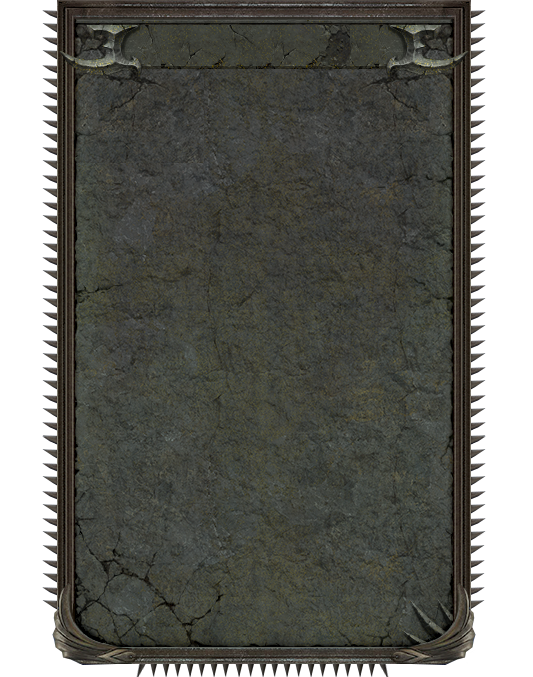
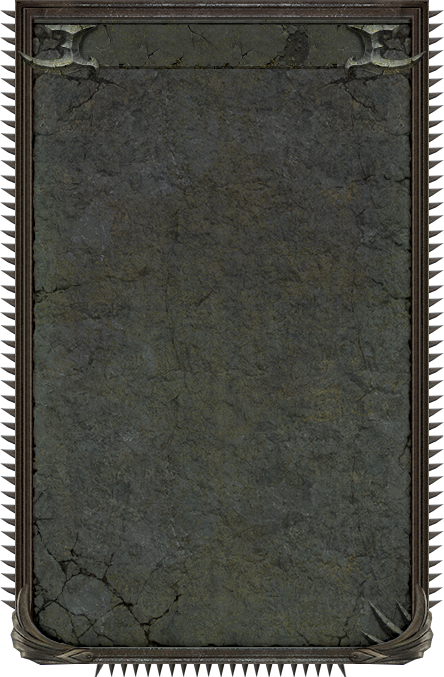
added wh1 races, updated plaques, fixed db data

diff --git a/client/src/components/home/RaceSelector.vue b/client/src/components/home/RaceSelector.vue
@@ -1,13 +1,31 @@
 <template>
-    <div class="race-selector unselectable col-12 col-md-5" :style="getAssets('plaque')">
-        <ul>
-            <li><a type="button" class="home-button" @click="selectRace('Dark Elves')" :style="getAssets('button-home', 'Dark Elves')">Dark Elves</a></li>
-            <li><a type="button" class="home-button" @click="selectRace('High Elves')" :style="getAssets('button-home', 'High Elves')">High Elves</a></li>
-            <li><a type="button" class="home-button" @click="selectRace('Lizardmen')" :style="getAssets('button-home', 'Lizardmen')">Lizardmen</a></li>
-            <li><a type="button" class="home-button disabled-button" @click="selectRace('Skaven', 'disabled')" :style="getAssets('button-home', 'Skaven')">Skaven</a></li>
-            <li><a type="button" class="home-button disabled-button" @click="selectRace('Tomb Kings', 'disabled')" :style="getAssets('button-home', 'Tomb Kings')">Tomb Kings</a></li>
-            <li><a type="button" class="home-button disabled-button" @click="selectRace('Vampire Coast', 'disabled')" :style="getAssets('button-home', 'Vampire Coast')">Vampire Coast</a></li>
-        </ul>
+    <div class="race-selector offset-race-selector unselectable col-12 col-lg-6" :style="getAssets('plaque-banner2')">
+        <div class="offset-right">
+            <ul>
+                <li class="race-header">
+                    <a @click="changeLords()" :style="getHeader()" type="button"></a>
+                </li>
+            </ul>
+            <ul v-if="wh2">
+                <li><a type="button" class="home-button" @click="selectRace('Dark Elves')" :style="getAssets('button-home', 'Dark Elves')">Dark Elves</a></li>
+                <li><a type="button" class="home-button" @click="selectRace('High Elves')" :style="getAssets('button-home', 'High Elves')">High Elves</a></li>
+                <li><a type="button" class="home-button" @click="selectRace('Lizardmen')" :style="getAssets('button-home', 'Lizardmen')">Lizardmen</a></li>
+                <li><a type="button" class="home-button disabled-button" @click="selectRace('Skaven', 'disabled')" :style="getAssets('button-home', 'Skaven')">Skaven</a></li>
+                <li><a type="button" class="home-button disabled-button" @click="selectRace('Tomb Kings', 'disabled')" :style="getAssets('button-home', 'Tomb Kings')">Tomb Kings</a></li>
+                <li><a type="button" class="home-button disabled-button" @click="selectRace('Vampire Coast', 'disabled')" :style="getAssets('button-home', 'Vampire Coast')">Vampire Coast</a></li>
+            </ul>
+            <ul class="wh" v-else>
+                <li><a type="button" class="home-button disabled-button" @click="selectRace('The Empire', 'disabled')" :style="getAssets('button-home', 'The Empire')">The Empire</a></li>
+                <li><a type="button" class="home-button disabled-button" @click="selectRace('Dwarves', 'disabled')" :style="getAssets('button-home', 'Dwarves')">Dwarves</a></li>
+                <li><a type="button" class="home-button disabled-button" @click="selectRace('Greenskins', 'disabled')" :style="getAssets('button-home', 'Greenskins')">Greenskins</a></li>
+                <li><a type="button" class="home-button disabled-button" @click="selectRace('Vampire Counts', 'disabled')" :style="getAssets('button-home', 'Vampire Counts')">Vampire Counts</a></li>
+                <li><a type="button" class="home-button disabled-button" @click="selectRace('Norsca', 'disabled')" :style="getAssets('button-home', 'Norsca')">Norsca</a></li>
+                <li><a type="button" class="home-button disabled-button" @click="selectRace('Bretonnia', 'disabled')" :style="getAssets('button-home', 'Bretonnia')">Bretonnia</a></li>
+                <li><a type="button" class="home-button disabled-button" @click="selectRace('Wood Elves', 'disabled')" :style="getAssets('button-home', 'Wood Elves')">Wood Elves</a></li>
+                <li><a type="button" class="home-button disabled-button" @click="selectRace('Beastmen Warherds', 'disabled')" :style="getAssets('button-home', 'Beastmen Warherds')">Beastmen Warherds</a></li>
+                <li><a type="button" class="home-button disabled-button" @click="selectRace('Chaos', 'disabled')" :style="getAssets('button-home', 'Chaos')">Chaos</a></li>
+            </ul>
+        </div>
     </div>
 </template>
 
@@ -18,7 +36,8 @@ export default {
     name: 'RaceSelector',
     data() {
         return {
-            selection: null
+            selection: 'Dark Elves',
+            wh2: true
         }
     },
     methods: {
@@ -32,12 +51,35 @@ export default {
             let img = require('@/assets/home/' + item + '.png');
             img = { 'backgroundImage': 'url(' + img + ')' };
             return img;
+        },
+        getHeader() {
+            let type = this.wh2 ? 'wh2' : 'wh'
+            let item, left, right;
+            item = require('@/assets/home/' + type + '.png');
+            right = require('@/assets/home/right-button.png');
+            left = require('@/assets/home/left-button.png');
+
+            return { 'backgroundImage': 'url(' + item + ')' };
+        },
+        changeLords() {
+            this.wh2 ? this.wh2 = false : this.wh2 = true;
         }
     }
 };
 </script>
 
 <style>
+@media (min-width: 1046px) {
+    .offset-right {
+        position: absolute;
+        right: calc(15% - 18px);
+    }
+    .race-selector.offset-race-selector {
+        background-position: right 15% top 30px;
+    }
+}
+
+
 .race-selector {
     background-position: center top 30px;
     background-repeat: no-repeat;
@@ -47,7 +89,10 @@ export default {
 .race-selector ul {
     list-style-type: none;
     padding-left: 0px;
-    padding-top: 55px;
+    margin-bottom: 0px;
+}
+.race-selector ul:first-child {
+    padding-top: 40px;
 }
 .disabled-button {
     filter: grayscale(100%);
@@ -56,5 +101,26 @@ export default {
 .race-selector ul li {
     padding: 13px 0 10px 0;
     width: 100%;
+}
+.race-selector ul.wh li {
+    padding: 11px 0 10px 0;
+    width: 100%;
+}
+.race-selector ul.wh li:first-child {
+    padding: 13px 0 10px 0;
+    width: 100%;
+}
+.race-header {
+    padding-top: 0px !important;
+    padding-bottom: 0px !important;
+    height: 70px;
+}
+.race-header a {
+    display: inline-block;
+    background-position: top center;
+    background-repeat: no-repeat;
+    z-index: 1;
+    width: 52px;
+    height: 70px;
 }
 </style>

diff --git a/client/src/components/home/LordSelector.vue b/client/src/components/home/LordSelector.vue
@@ -1,34 +1,36 @@
 <template>
-    <div class="lord-selector unselectable col-12 col-md-5" :style="getAssets('plaque-banner')">
-        <ul v-if="selection">
-            <li class="lord-header">
-                <a @click="changeLords()" :style="getHeader()" type="button" :disabled="!selection"></a>
-            </li>
-        </ul>
-        <ul v-if="showLords">
-            <li v-for="(lord, index) in lords" :key="index" >
-                <div v-if="lord.school" class="banner" :style="getAssets('banner')">
-                    <a :style="getAssets('button-home')" class="home-button" :disabled="!selection" style="display:block">
-                        {{lord.name}}
-                    </a>
-                    <div class="spell-schools">
-                        <a v-for="(magic, index) in lord.school" :key="index" @click="selectLord(lord, magic)" type="button" :style="getImages('spellSchools/' + magic)" />
+    <div class="lord-selector offset-lord-selector unselectable col-12 col-lg-6" :style="getAssets('plaque-banner')">
+        <div class="offset-left">
+            <ul v-if="selection">
+                <li class="lord-header">
+                    <a @click="changeLords()" :style="getHeader()" type="button" :disabled="!selection"></a>
+                </li>
+            </ul>
+            <ul v-if="showLords">
+                <li v-for="(lord, index) in lords" :key="index" >
+                    <div v-if="lord.school" class="banner" :style="getAssets('banner')">
+                        <a :style="getAssets('button-home')" class="home-button" :disabled="!selection" style="display:block">
+                            {{lord.name}}
+                        </a>
+                        <div class="spell-schools">
+                            <a v-for="(magic, index) in lord.school" :key="index" @click="selectLord(lord, magic)" type="button" :style="getImages('spellSchools/' + magic)" />
+                        </div>
                     </div>
-                </div>
-                <div v-else>
-                    <a @click="selectLord(lord)" :style="getAssets('button-home')" type="button" class="home-button" :disabled="!selection">
+                    <div v-else>
+                        <a @click="selectLord(lord)" :style="getAssets('button-home')" type="button" class="home-button" :disabled="!selection">
+                            {{lord.name}}
+                        </a>
+                    </div>
+                </li>
+            </ul>
+            <ul v-else> 
+                <li v-for="(lord, index) in legendaryLords" :key="index">
+                    <a @click="selectLord(lord)" :style="getAssets('button-ll')" type="button" class="home-button" :disabled="!selection">
                         {{lord.name}}
                     </a>
-                </div>
-            </li>
-        </ul>
-        <ul v-else> 
-            <li v-for="(lord, index) in legendaryLords" :key="index">
-                <a @click="selectLord(lord)" :style="getAssets('button-ll')" type="button" class="home-button" :disabled="!selection">
-                    {{lord.name}}
-                </a>
-            </li>
-        </ul>
+                </li>
+            </ul>
+        </div>
     </div>
 </template>
 
@@ -50,6 +52,7 @@ export default {
     },
     methods: {
         setRace() {
+            console.log('2', this.selection)
             if (this.selection) {
                 this.lords = LordKey.lords[this.selection];
                 this.legendaryLords = LordKey.legendary[this.selection];
@@ -89,11 +92,24 @@ export default {
         selection: function() {
             this.setRace();
         }
+    },
+    created() {
+        this.setRace();
     }
 };
 </script>
 
 <style>
+@media (min-width: 1046px) {
+    .offset-left {
+        position: absolute;
+        left: calc(15% - 18px);
+    }
+    .lord-selector.offset-lord-selector {
+        background-position: left 15% top 30px;
+    }
+}
+
 .lord-selector {
     background-position: center top 30px;
     background-repeat: no-repeat;

diff --git a/client/src/views/Calculator.vue b/client/src/views/Calculator.vue
@@ -2,17 +2,16 @@
     <div id="calculator" v-if="skills.length > 0" class="container-fluid calc-border calc" :style="getBackground(this.styleGuide)">
         <div class="header-padding">
             <div class="row navbar navbar-expand-lg navbar-light fixed-top top-bar unselectable" :style="getHeaderBackground(this.styleGuide, 'panel-tile')">
-                <div class="col left-nav action-items">
+                <div class="left-nav action-items">
                     <a @click="$router.push('/')" type="button" :style="getAsset(this.styleGuide, 'home')">Back</a>
                     <a @click="resetPoints()" type="button" style="marginLeft:20px;" :style="getAsset(this.styleGuide, 'reset')"></a>
                     <a @click="changeStyle()" type="button" style="marginLeft:20px;" :style="getAsset(this.styleGuide, 'icon-wh')"></a>
                 </div>
-                <div class="col lord-name" :style="getHeaderBackground(this.styleGuide, 'title-large')">
+                <div class="middle-nav lord-name" :style="getHeaderBackground(this.styleGuide, 'title-large')">
                     <p>{{getProperName()}}</p>
                 </div>
-                <div class="col right-nav level" :style="getHeaderBackground(this.styleGuide, 'level-frame')">
-                    <p>Level:</p>
-                    <span class="inline-block">{{lordLevel}}</span>
+                <div class="right-nav level" :style="getHeaderBackground(this.styleGuide, 'level-frame')">
+                    <p>{{lordLevel}}</p>
                 </div>
             </div>
         </div>
@@ -236,24 +235,28 @@ export default {
 }
 .left-nav {
     text-align: left;
+    display: inline-block;
+    width: 20%;
 }
 .lord-name {
     background-position: center;
     background-repeat: no-repeat;
     height: 68px;
+    width: 60%;
     font-weight: 600;
     font-size: 1.2em;
     color: #EBE6CD;
-    padding: 0 160px;
 }
 .lord-name p {
     padding-top: 20px;
 }
 .right-nav {
+    width: 20%;
     text-align: right;
 }
 .right-nav p {
     margin-bottom: 0px;
+    padding-right: 12px;
 }
 .header-padding {
     padding-bottom: 160px;
@@ -274,7 +277,7 @@ export default {
     display: inline-block;
     color: #EBE6CD;
     padding-top: 20px;
-    padding-right: 30px;
+    padding-right: 32px;
 }
 .level span {
     color: #EBE6CD;

diff --git a/client/src/services/gradients.js b/client/src/services/gradients.js
@@ -1,16 +1,16 @@
 
 exports.rarity = {
-    common: '#505663, #4F5560, #4E535E, #46515A, #46515A, #333739, #2C2D2D, black',
-    uncommon: '#306E3A, #306338, #306238, #2A652E, #276127, #275126, #283425, black',
-    rare: '#3E52A1, #384EA1, #3A4E99, #324D9A, #2A539C, #264373, #222A38, black',
-    legendary: '#693E82, #613C79, #5F3E74, #5E3D76, #4D316F, #3C2D4D, #242933, black'
+    common: '#505663, #4F5560, #4E535E, #46515A, #46515A, #333739, #2C2D2D, #000000',
+    uncommon: '#306E3A, #306338, #306238, #2A652E, #276127, #275126, #283425, #000000',
+    rare: '#3E52A1, #384EA1, #3A4E99, #324D9A, #2A539C, #264373, #222A38, #000000',
+    legendary: '#693E82, #613C79, #5F3E74, #5E3D76, #4D316F, #3C2D4D, #242933, #000000'
 }
 
 exports.description = {
-    common: '#393C41, #3A3D42, #373A3E, #323639, #282B2C',
-    uncommon: '#2C482F, #2B432E, #2A442D, #274226, #282C25',
-    rare: '#333D5F, #303A5C, #313B5C, #293957, #272623',
-    legendary: '#473352, #44324D, #42324B, #362B42, #2C282C'
+    common: '#393C41, #3A3D42, #373A3E, #323639, #282B2C, #000000',
+    uncommon: '#2C482F, #2B432E, #2A442D, #274226, #282C25, #000000',
+    rare: '#333D5F, #303A5C, #313B5C, #293957, #272623, #000000',
+    legendary: '#473352, #44324D, #42324B, #362B42, #2C282C, #000000'
 }
 
 exports.buttons = {

diff --git a/client/src/components/calculator/Popup.vue b/client/src/components/calculator/Popup.vue
@@ -4,7 +4,7 @@
         <div v-if="quest" class="title">
             <span class="icon"><a class="rarity-icon" :style="getIcon('spellStyles', 'legendary')"></a></span>
             <div class="spell-name inline-block" :style="getGradient('rarity', 'legendary')">
-                <p class="inline-block title">Quest for: {{info.name}} (Unique)</p>
+                <p class="title legend-item">Quest for: {{info.name}} (Unique)</p>
             </div>
         </div>
         <div v-else class="title">
@@ -199,5 +199,9 @@ export default {
     max-width: 540px;
     padding-bottom: 10px;
     vertical-align: middle;
+}
+.legend-item {
+    vertical-align: middle;
+    margin-bottom: 4px;
 }
 </style>

diff --git a/server/src/tempDataBase/db.js b/server/src/tempDataBase/db.js
@@ -3320,6 +3320,7 @@ exports.skills = [
         spell: {
             description: 'Character ability',
             rarity: 'uncommon',
+            cooldown: '90',
             attributes: {
                 type: [
                     { text: 'Augment (Area)' },

diff --git a/client/src/views/Home.vue b/client/src/views/Home.vue
@@ -28,7 +28,7 @@ export default {
     },
     data() {
         return {
-            selection: null
+            selection: 'darkelves'
         };
     },
     methods: {
